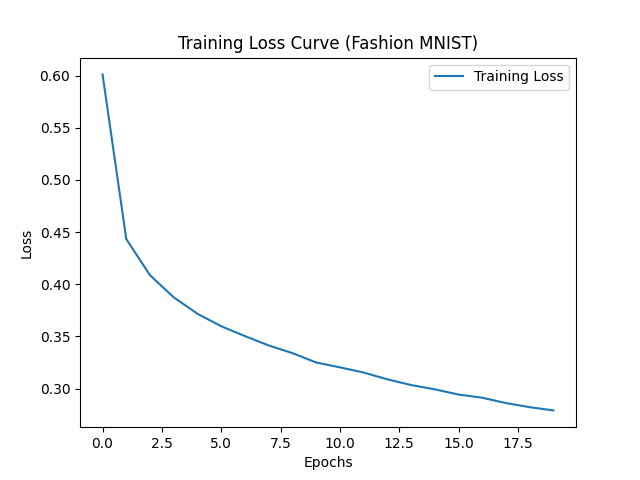
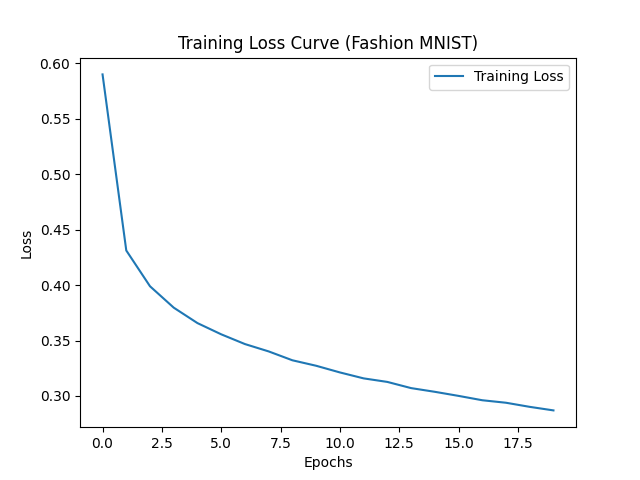
Enhance data augmentation by adding Gaussian noise to test data and adjusting noise scale

diff --git a/mnist_mlp2.py b/mnist_mlp2.py
@@ -18,11 +18,12 @@ def one_hot_encoder(tags, num_classes=10):
 x_train = x_train.reshape((x_train.shape[0], 784)).astype('float32') / 255.0
 x_test = x_test.reshape((x_test.shape[0], 784)).astype('float32') / 255.0
 
-# Add Gaussian noise to training data only
+# Add Gaussian noise to training and test data
 np.random.seed(0)
-train_noise = np.random.normal(loc=0.0, scale=0.05, size=x_train.shape)
-#x_train_noisy=x_train
+train_noise = np.random.normal(loc=0.0, scale=0.08, size=x_train.shape)
+test_noise = np.random.normal(loc=0.0, scale=0.08, size=x_test.shape)
 x_train_noisy = np.clip(x_train + train_noise)
+x_test_noisy = np.clip(x_test + test_noise)
 
 y_train_ohe = one_hot_encoder(y_train)
 y_test_ohe = one_hot_encoder(y_test)
@@ -38,7 +39,7 @@ epochs = 20
 history = model.fit(x_train_noisy, y_train_ohe, epochs=epochs, batch_size=16, verbose=0)
 
 train_loss, train_accuracy = model.evaluate(x_train_noisy, y_train_ohe, verbose=0)
-test_loss, test_accuracy = model.evaluate(x_test, y_test_ohe, verbose=0)
+test_loss, test_accuracy = model.evaluate(x_test_noisy, y_test_ohe, verbose=0)
 
 print(f'Accuracy for the training data: {train_accuracy * 100:.2f}%')
 print(f'Accuracy for the test data: {test_accuracy * 100:.2f}%')
